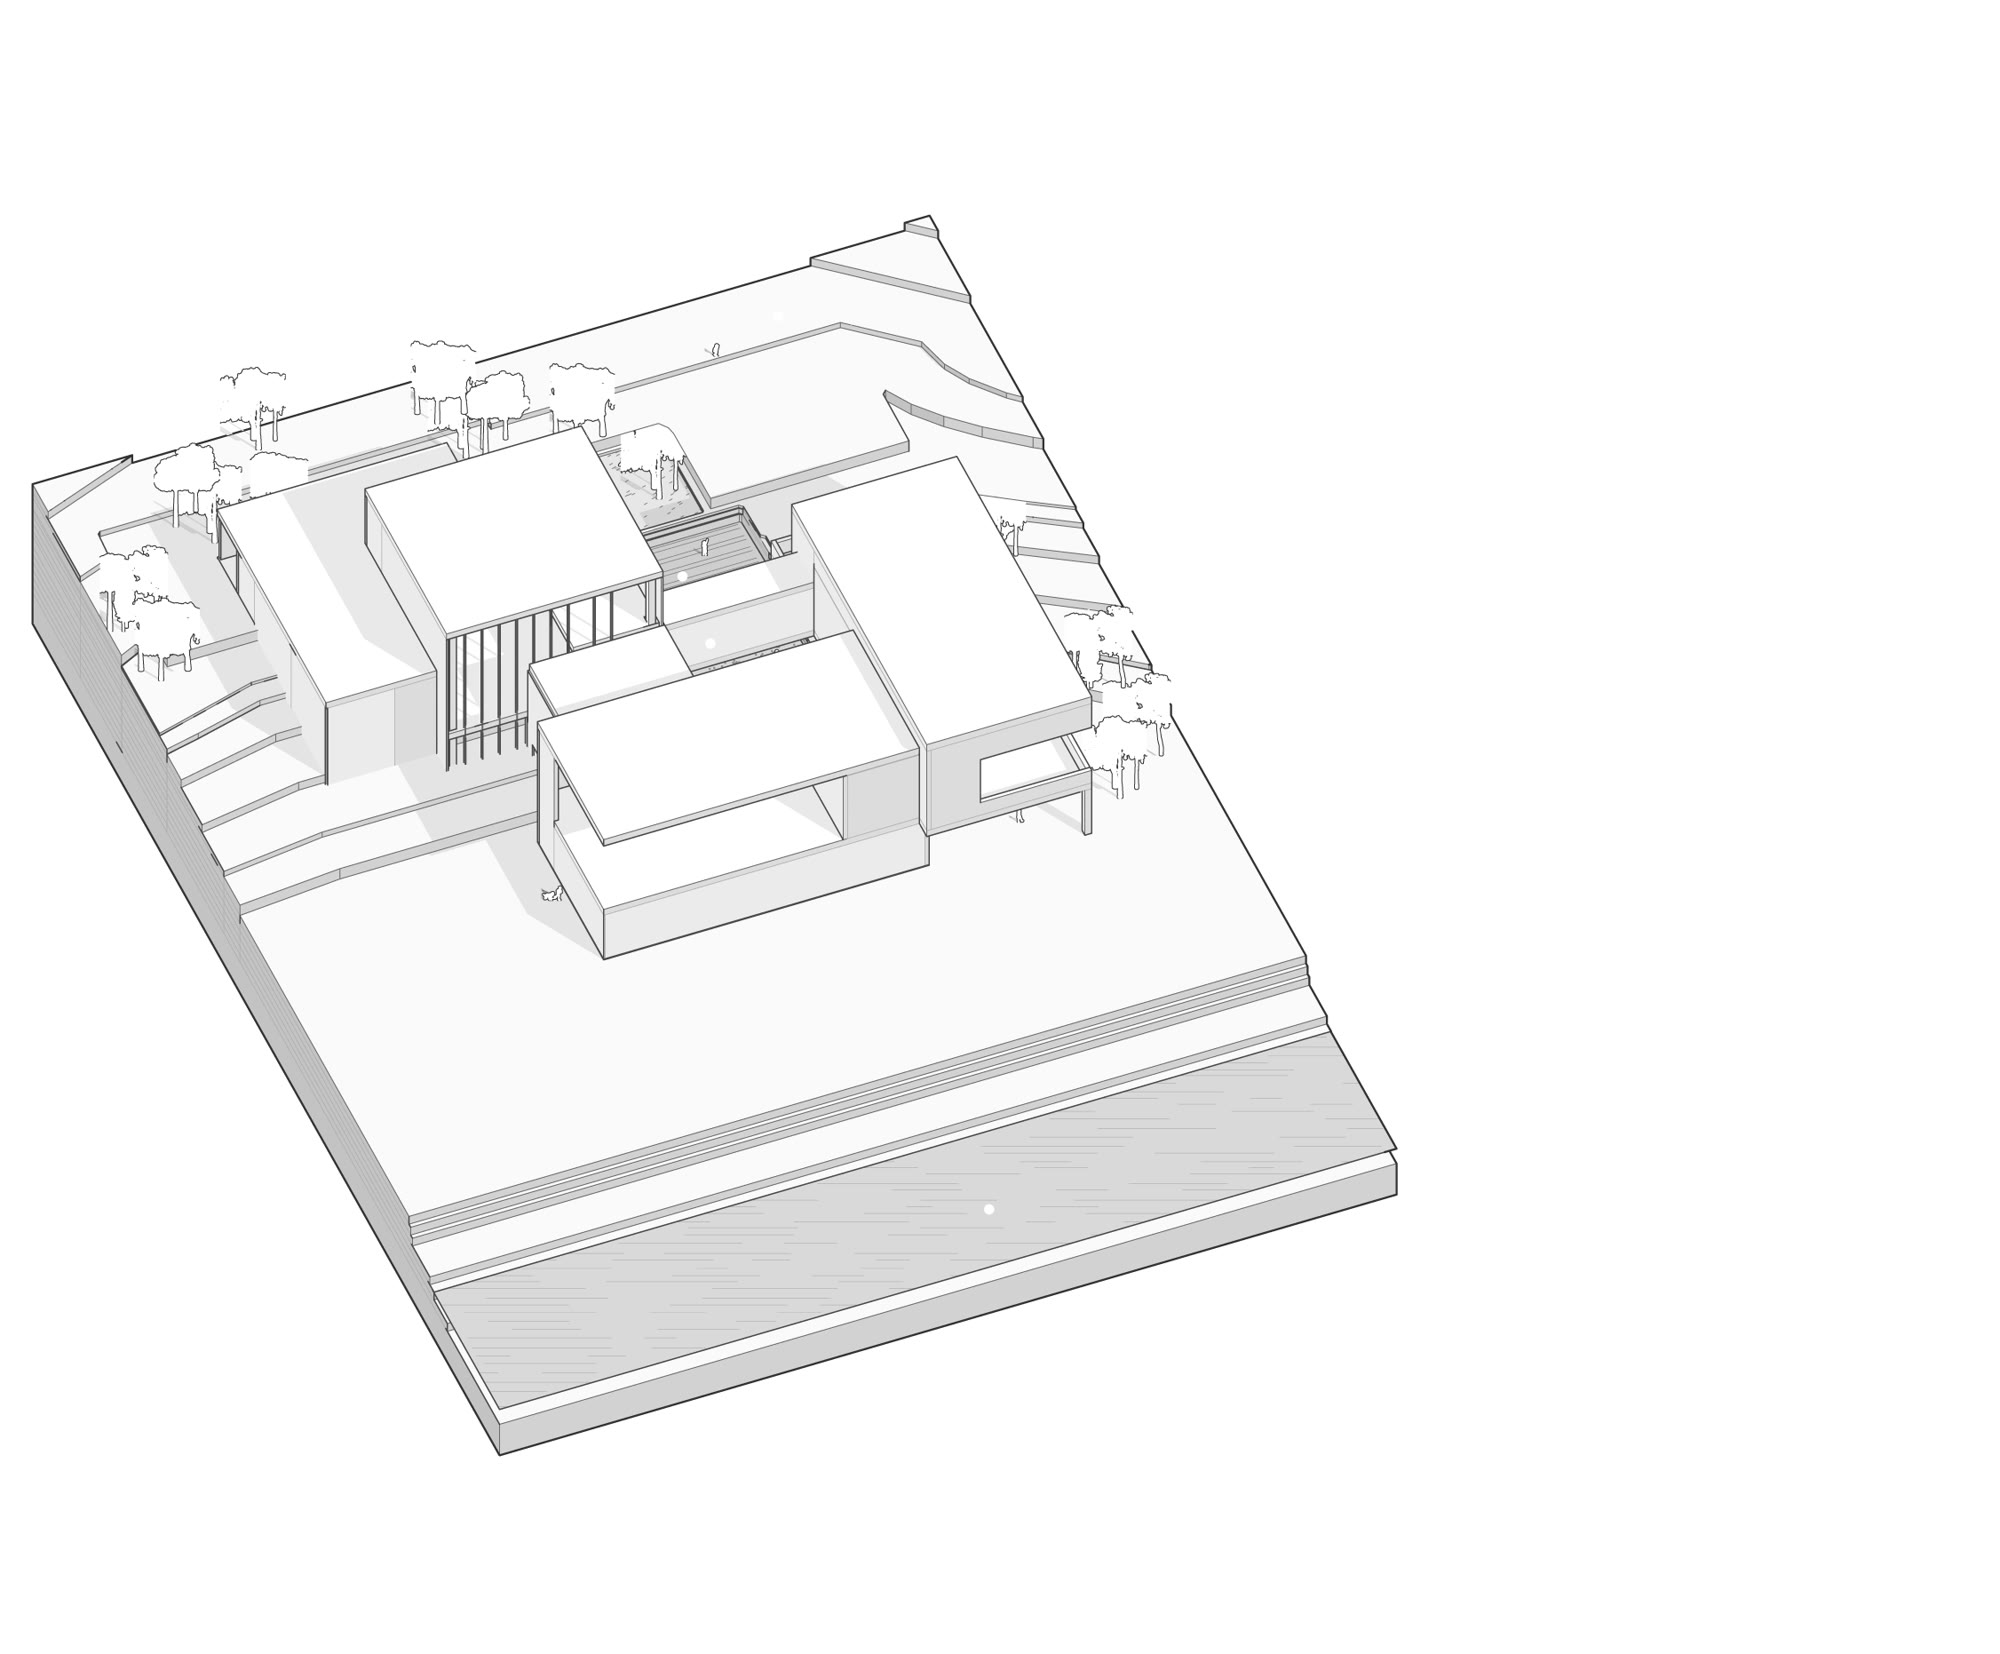
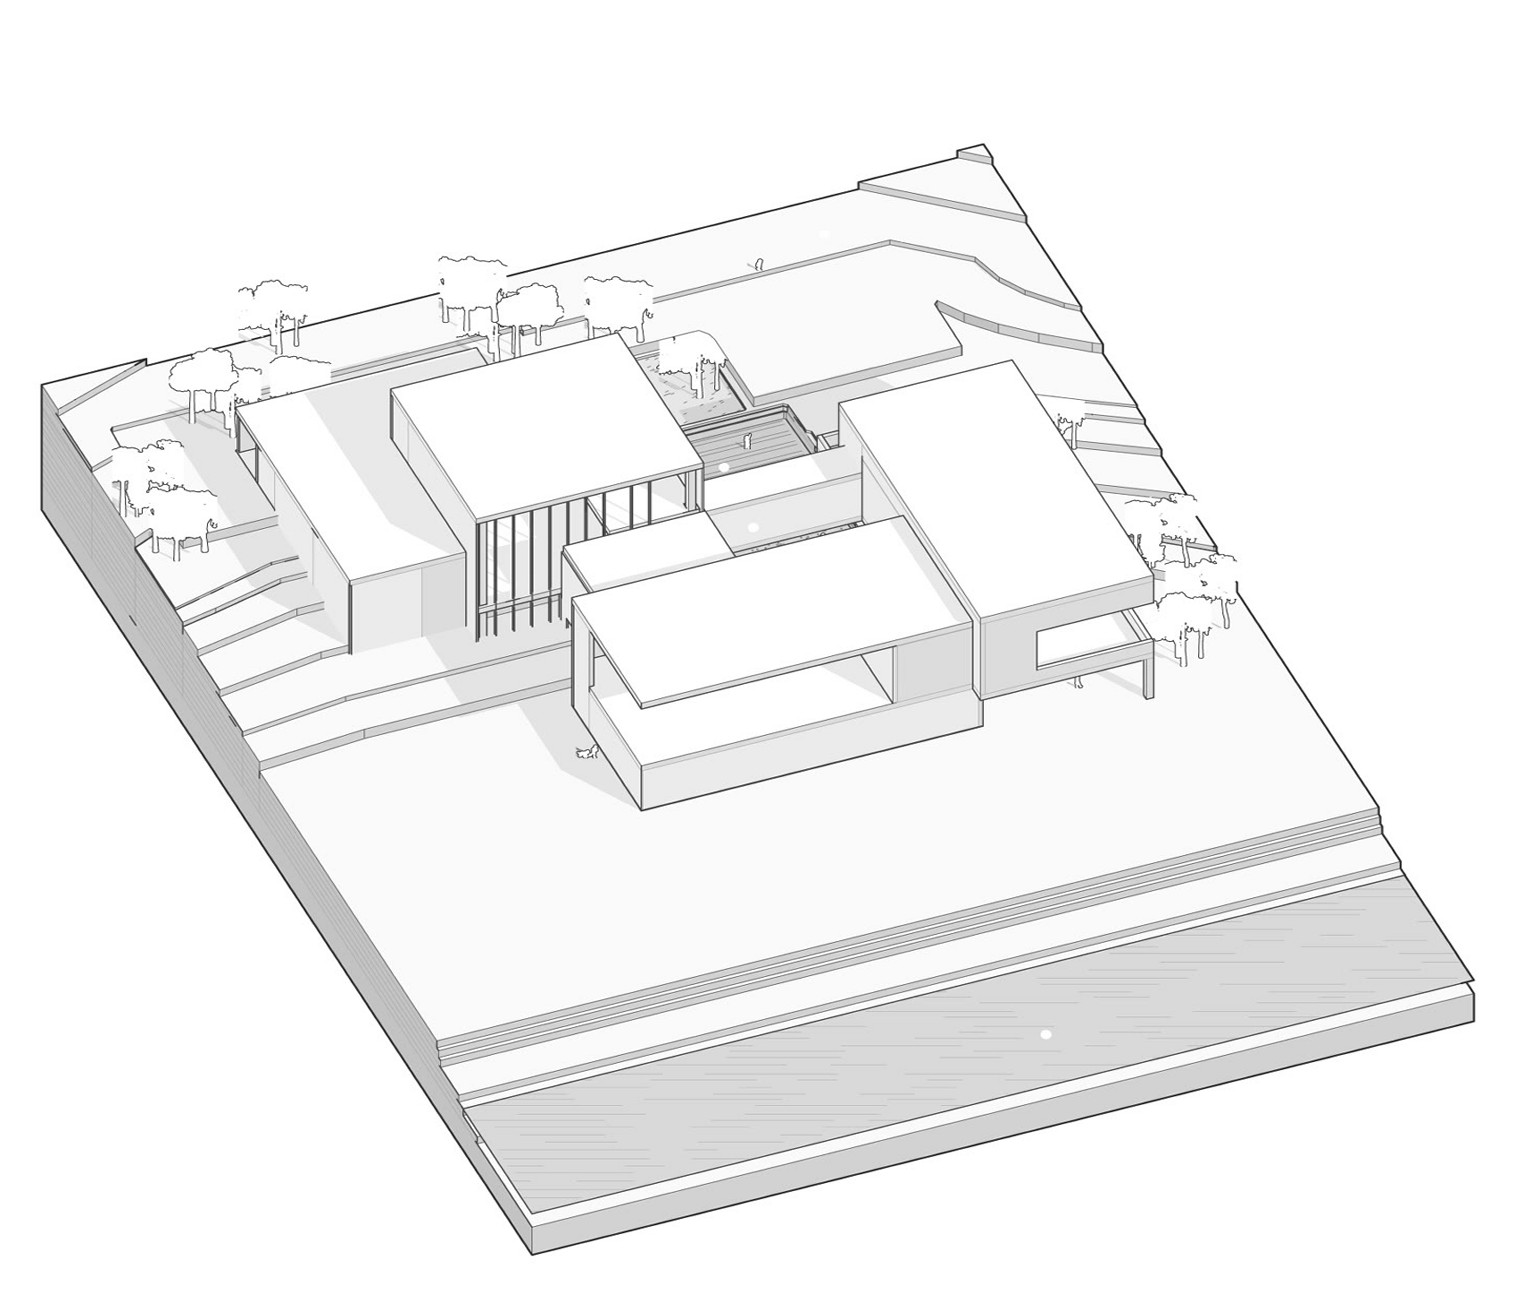
핀 #191·#192 (Natural Palette): 매스 다이어그램 5장·전략 평면을 선 겹침으로 같은 바탕에 맞춰(매스 5는 가로·세로 배율 따로, 평면 2장은 축척 막대로 배율) 넘어갈 때 제자리에 겹치게, 글자 위치도 함께 옮김

diff --git a/assets/js/data.js b/assets/js/data.js
@@ -2546,7 +2546,7 @@ const SITE = {
       { heading: "Read, Insert, Carve, Play", big: true, // KG-07 매스 과정
         text: "The slope that falls from the forest to the lake is set into two flat grounds, and a three-storey mass is slid in between. The middle of the mass is carved so light and eyes reach the play deck on the first floor; the rest of the slope is cut into sand, garden and small-forest yards that children climb one step at a time.",
         images: [],
-        seq: {"kind":"frames","fade":true,"below":true,"r":1.2095,"steps":[{"src":"assets/img/natural-palette/mass-1.jpg","t":"Read the slope","s":"From the forest (S.L +11) to the lake (W.L −3.0), the ground falls about 14 m.","d":"The road runs halfway down, at S.L ±0 — the level every ground of the building is measured from.","tags":[[59.8,16.7,"Forest on the hill\nS.L +3.8 → +11","","m nl"],[29.3,68.9,"Lakeside road\nS.L ±0","c","m nl"],[69,74.8,"Lake\nW.L −3.0","","m nl"]]},{"src":"assets/img/natural-palette/mass-2.jpg","t":"Two grounds","s":"The slope is set into a lake ground (±0) and a forest ground (+3.8).","d":"The building takes its place on the edge between the two.","tags":[[55.1,20.9,"Forest ground · S.L +3.8","","m"],[29.1,62.1,"Lake ground · S.L ±0","c","m"]]},{"src":"assets/img/natural-palette/mass-3.jpg","t":"Insert the mass","s":"Three floors slid into the edge.","d":"The first floor meets the lake ground, the second meets the forest ground, and the third opens over the trees.","tags":[[26.5,21.5,"3F — a classroom open over the forest","","m"],[71.5,35.3,"2F — meets the forest","","m"],[74.6,54.5,"1F — meets the road and the lake","","m"]]},{"src":"assets/img/natural-palette/mass-4.jpg","t":"Carve the voids","s":"The light well (c), the hall (b) and the void over the entrance (a).","d":"Carved out so that light and eyes come down to the play deck on the first floor.","tags":[[22.1,34.8,"b Hall","r","m"],[25.4,55.4,"a Entry void","r","m"],[62.5,33.3,"c Light well","","m"]]},{"src":"assets/img/natural-palette/mass-5.jpg","t":"Play layers","s":"What is left of the slope becomes deck, sand, garden and small forest.","d":"Seen from the lake, the play grounds climb toward the forest one step at a time: 1 lake W.L −3.0 · 2 play deck ±0 · 3 sand +0.8 · 4 garden +1.8 · 5 small forest +2.8 · 6 forest +3.8.","tags":[[39.2,19.1,"6","c","pt"],[40.9,30.5,"5","c","pt"],[35.7,35.1,"4","c","pt"],[34.3,39.8,"3","c","pt"],[37.9,44.9,"2","c","pt"],[49.6,73.5,"1","c","pt"]]}]} },
+        seq: {"kind":"frames","fade":true,"below":true,"r":1.1755,"steps":[{"src":"assets/img/natural-palette/mass-1.jpg","t":"Read the slope","s":"From the forest (S.L +11) to the lake (W.L −3.0), the ground falls about 14 m.","d":"The road runs halfway down, at S.L ±0 — the level every ground of the building is measured from.","tags":[[62.7,9.9,"Forest on the hill\nS.L +3.8 → +11","","m nl"],[22.9,76.1,"Lakeside road\nS.L ±0","c","m nl"],[74.7,83.5,"Lake\nW.L −3.0","","m nl"]]},{"src":"assets/img/natural-palette/mass-2.jpg","t":"Two grounds","s":"The slope is set into a lake ground (±0) and a forest ground (+3.8).","d":"The building takes its place on the edge between the two.","tags":[[55.9,15.2,"Forest ground · S.L +3.8","","m"],[22,67.4,"Lake ground · S.L ±0","c","m"]]},{"src":"assets/img/natural-palette/mass-3.jpg","t":"Insert the mass","s":"Three floors slid into the edge.","d":"The first floor meets the lake ground, the second meets the forest ground, and the third opens over the trees.","tags":[[18.3,16,"3F — a classroom open over the forest","","m"],[77,33.5,"2F — meets the forest","","m"],[81.1,57.8,"1F — meets the road and the lake","","m"]]},{"src":"assets/img/natural-palette/mass-4.jpg","t":"Carve the voids","s":"The light well (c), the hall (b) and the void over the entrance (a).","d":"Carved out so that light and eyes come down to the play deck on the first floor.","tags":[[13.5,27.8,"b Hall","r","m"],[17.8,53.9,"a Entry void","r","m"],[66.2,25.9,"c Light well","","m"]]},{"src":"assets/img/natural-palette/mass-5.jpg","t":"Play layers","s":"What is left of the slope becomes deck, sand, garden and small forest.","d":"Seen from the lake, the play grounds climb toward the forest one step at a time: 1 lake W.L −3.0 · 2 play deck ±0 · 3 sand +0.8 · 4 garden +1.8 · 5 small forest +2.8 · 6 forest +3.8.","tags":[[54.1,17.9,"6","c","pt"],[56.5,30.9,"5","c","pt"],[49.4,36.1,"4","c","pt"],[47.4,41.4,"3","c","pt"],[52.4,47.2,"2","c","pt"],[68.4,79.7,"1","c","pt"]]}]} },
       { heading: "Two Grounds, One Hall", big: true, // KG-06 분해 엑소
         text: "The building sits between two grounds of different height. The first floor meets the road and the lake ground (S.L ±0); the second meets the forest ground (S.L +3.9). Three voids thread them together — the void over the entrance, the hall linking the second and third floors, and the light well over the play deck — so a child on any floor sees and hears the play above and below.",
         cols: 2, cw: [3, 1],
@@ -2554,7 +2554,7 @@ const SITE = {
       { heading: "Four Strategies", big: true, // KG-08
         text: "Classrooms open to yards, the corridor loops around the light well, and two entrances sit on two grounds of different height. Floor by floor, the ground changes from the road and the lake to the forest and the sky.",
         images: [],
-        seq: {"kind":"frames","fade":true,"below":true,"r":1.1974,"steps":[{"src":"assets/img/natural-palette/strategy-a.jpg","t":"Classroom + yard","s":"Each classroom opens onto its own yard.","d":"The 5–6 class opens west through folding doors onto the play palette, the 7 class north onto the play deck. With the doors open, room and yard become one play space, and the deck steps on to the sand yard and the garden.","tags":[[62.2,21.3,"Garden +1.8","c","m"],[62.5,36.5,"Sand yard +0.8","c","m"],[62.5,50,"Play deck ±0","c","m"],[18.7,64.3,"Play palette","c","m"],[40.1,46.6,"Welcome room","c","m"],[39.3,74,"Class 5–6","c","i"],[64.4,74,"Class 7","c","i"]]},{"src":"assets/img/natural-palette/strategy-b.jpg","t":"A loop around the light well","s":"The second-floor corridor goes once around the light well.","d":"It links the dining room, floor play, the assembly hall and the hall. With no dead end, children never walk back the same way, and all along they see the play deck below and the sky above. The north side of the well becomes a bridge over the sand yard.","tags":[[26,5.9,"Forest entrance +3.9","","m"],[24.2,20.8,"Director · counselling","c","m"],[18.9,38,"Special class","c","i"],[34.5,45.2,"Hall — open three floors","c","m"],[62.3,58.8,"Light well","c","m"],[82.1,52.7,"Floor play","c","m"],[46.3,78.7,"Dining","c","m"],[67.4,79.2,"Kitchen","c","m"],[83.5,76.4,"Assembly hall","c","m"]]},{"src":"assets/img/natural-palette/strategy-c.jpg","t":"Two grounds, two doors","s":"The main door on the lakeside road, the forest door on the hill.","d":"Main entrance on the first floor (S.L ±0), forest entrance on the second (S.L +3.9). Inside, the hall stair and the lift join the two grounds; outside, the play grounds do — deck, sand, garden, small forest.","tags":[[21.3,25.2,"Forest entrance · 2F","","m"],[79.9,31.3,"Main entrance · 1F","","m"],[93.1,27.3,"S.L +3.9","","m"],[93.1,33.1,"S.L ±0","","m"],[10,77.2,"1F indoor","c","m"],[24.1,77.2,"Play deck ±0","c","m"],[37.7,70.5,"Sand +0.8","c","m"],[52.9,62.8,"Garden +1.8","c","m"],[67.2,54.6,"Small forest +2.8","c","m"],[81.8,46.7,"Forest · 2F +3.8","c","m"]]},{"src":"assets/img/natural-palette/strategy-d.jpg","t":"Program by floor","s":"A different ground on each floor.","d":"First floor, the ground of the road and the lake: classrooms, the welcome room, the open library. Second, the ground of the forest: big rooms — dining, assembly, floor play — and the special class. Third, the ground of the sky: the roof garden, the sun terrace and the open classroom on the roof.","tags":[[11.8,5,"3F — ground of the sky · S.L +7.6","","m"],[11.8,40.7,"2F — ground of the forest · S.L +3.9","","m"],[11.8,77.8,"1F — ground of the road and lake · S.L ±0","","m"],[38.2,4.5,"Open classroom","c","i"],[29.7,46.8,"Special class","c","i"],[57.1,90.5,"Class","c","i"],[72.6,86.9,"Class","c","i"],[44.8,77.4,"Library","c","m"],[87.3,49.8,"Assembly hall","c","m"],[61.8,55.9,"Dining","c","m"]]}]} },
+        seq: {"kind":"frames","fade":true,"below":true,"r":1.1414,"steps":[{"src":"assets/img/natural-palette/strategy-a.jpg","t":"Classroom + yard","s":"Each classroom opens onto its own yard.","d":"The 5–6 class opens west through folding doors onto the play palette, the 7 class north onto the play deck. With the doors open, room and yard become one play space, and the deck steps on to the sand yard and the garden.","tags":[[63.4,26.7,"Garden +1.8","c","m"],[63.7,41.4,"Sand yard +0.8","c","m"],[63.7,54.5,"Play deck ±0","c","m"],[19.3,68.3,"Play palette","c","m"],[41,51.2,"Welcome room","c","m"],[40.1,77.7,"Class 5–6","c","i"],[65.6,77.7,"Class 7","c","i"]]},{"src":"assets/img/natural-palette/strategy-b.jpg","t":"A loop around the light well","s":"The second-floor corridor goes once around the light well.","d":"It links the dining room, floor play, the assembly hall and the hall. With no dead end, children never walk back the same way, and all along they see the play deck below and the sky above. The north side of the well becomes a bridge over the sand yard.","tags":[[23.2,4.1,"Forest entrance +3.9","","m"],[21.3,19.7,"Director · counselling","c","m"],[15.4,37.7,"Special class","c","i"],[32.6,45.3,"Hall — open three floors","c","m"],[63.1,59.5,"Light well","c","m"],[84.9,53.1,"Floor play","c","m"],[45.6,80.4,"Dining","c","m"],[68.7,80.9,"Kitchen","c","m"],[86.4,78,"Assembly hall","c","m"]]},{"src":"assets/img/natural-palette/strategy-c.jpg","t":"Two grounds, two doors","s":"The main door on the lakeside road, the forest door on the hill.","d":"Main entrance on the first floor (S.L ±0), forest entrance on the second (S.L +3.9). Inside, the hall stair and the lift join the two grounds; outside, the play grounds do — deck, sand, garden, small forest.","tags":[[21.5,28.1,"Forest entrance · 2F","","m"],[80.9,34,"Main entrance · 1F","","m"],[94.3,30.1,"S.L +3.9","","m"],[94.3,35.7,"S.L ±0","","m"],[10.1,78.3,"1F indoor","c","m"],[24.3,78.3,"Play deck ±0","c","m"],[38.1,71.9,"Sand +0.8","c","m"],[53.5,64.4,"Garden +1.8","c","m"],[68,56.5,"Small forest +2.8","c","m"],[82.8,48.9,"Forest · 2F +3.8","c","m"]]},{"src":"assets/img/natural-palette/strategy-d.jpg","t":"Program by floor","s":"A different ground on each floor.","d":"First floor, the ground of the road and the lake: classrooms, the welcome room, the open library. Second, the ground of the forest: big rooms — dining, assembly, floor play — and the special class. Third, the ground of the sky: the roof garden, the sun terrace and the open classroom on the roof.","tags":[[3.7,7.3,"3F — ground of the sky · S.L +7.6","","m"],[3.7,41.8,"2F — ground of the forest · S.L +3.9","","m"],[3.7,77.6,"1F — ground of the road and lake · S.L ±0","","m"],[30.4,6.8,"Open classroom","c","i"],[21.8,47.7,"Special class","c","i"],[49.6,89.9,"Class","c","i"],[65.3,86.4,"Class","c","i"],[37.1,77.3,"Library","c","m"],[80.2,50.6,"Assembly hall","c","m"],[54.3,56.5,"Dining","c","m"]]}]} },
       { heading: "Ground Floor — the Lake Side", big: true, // KG-03A
         text: "The first floor starts level with the road (S.L ±0). Past the entrance and the welcome room are the hall that threads three floors and the open library; to the east, the play deck and the sand yard reach right up to the classrooms. The 5–6 and 7 classrooms open through folding doors to the deck and the yard by the road.",
         images: [{"src":"assets/img/natural-palette/plan-1f.jpg","caption":"Ground floor plan, S.L ±0 — opening to the road, the deck and the sand","r":1.3169,"tags":[[17.3,17.7,"Plant","c","m"],[22.6,17.7,"WC","c","m"],[35,17.4,"Maze play −0.85","c","m"],[16.9,33.5,"Staff","c","m"],[23.5,32.9,"Meeting","c","m"],[36.8,32.6,"Open library","c","b"],[62.5,37,"Sand yard 7.8 × 4.4 m","c","m"],[40.3,50.1,"Entrance hall","c","m"],[42.7,59.2,"Welcome room","c","m"],[63.9,54.6,"Play deck","c","b"],[26.2,67.7,"Play palette","c","b"],[40,78.6,"Class 5–6","c","b"],[55,76.1,"WC","c","m"],[65.1,77.7,"Class 7","c","b"],[86.9,80.1,"Parking","c","m"],[23.8,88.5,"Drop zone","c","m"],[7.2,79.2,"Main entrance →","c","m"]],"w":"100%"}] },
